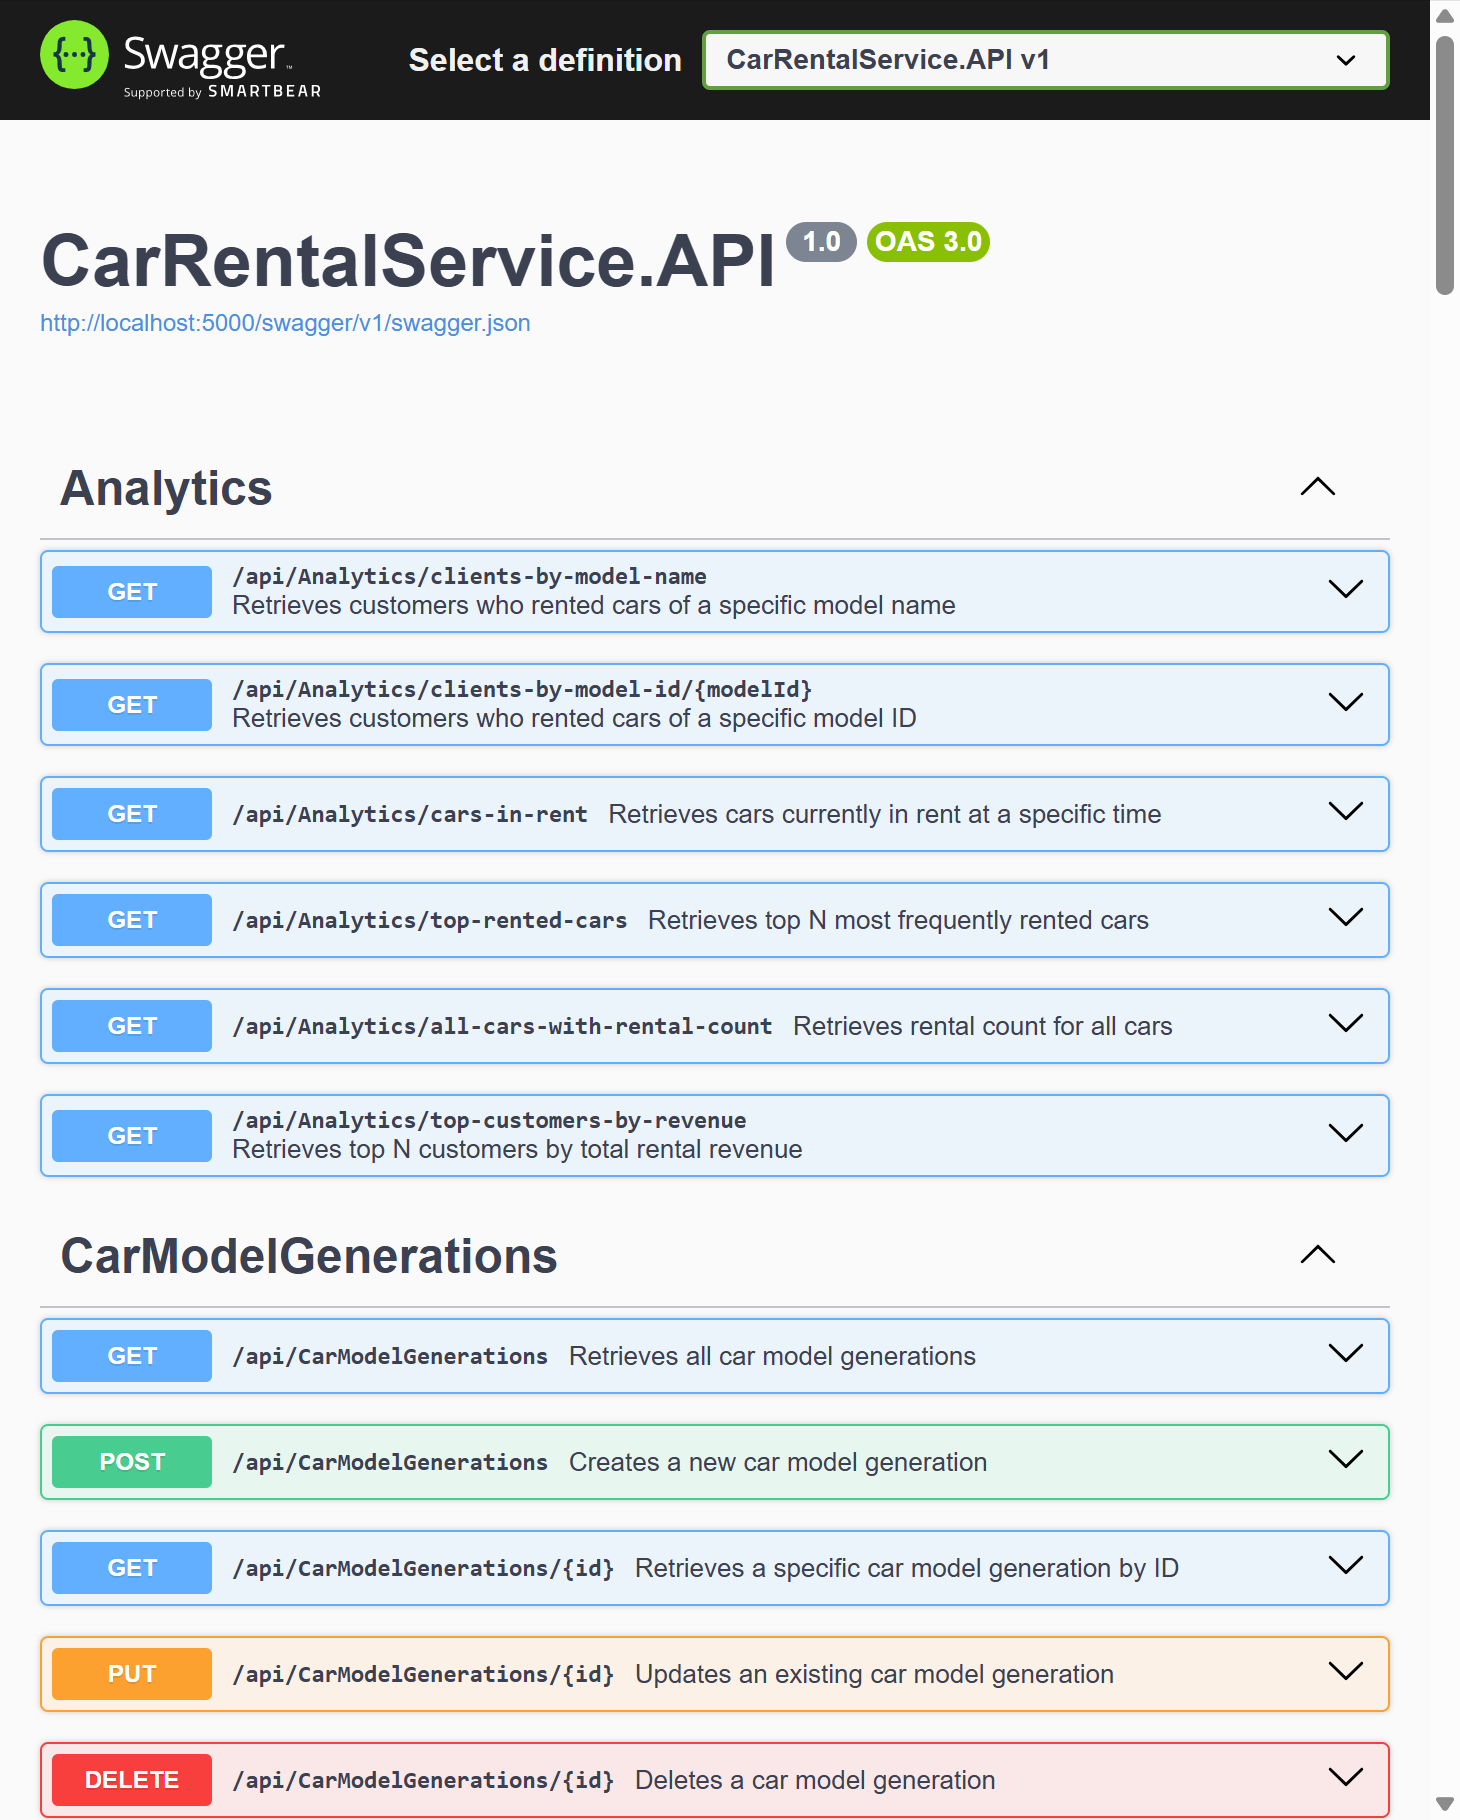
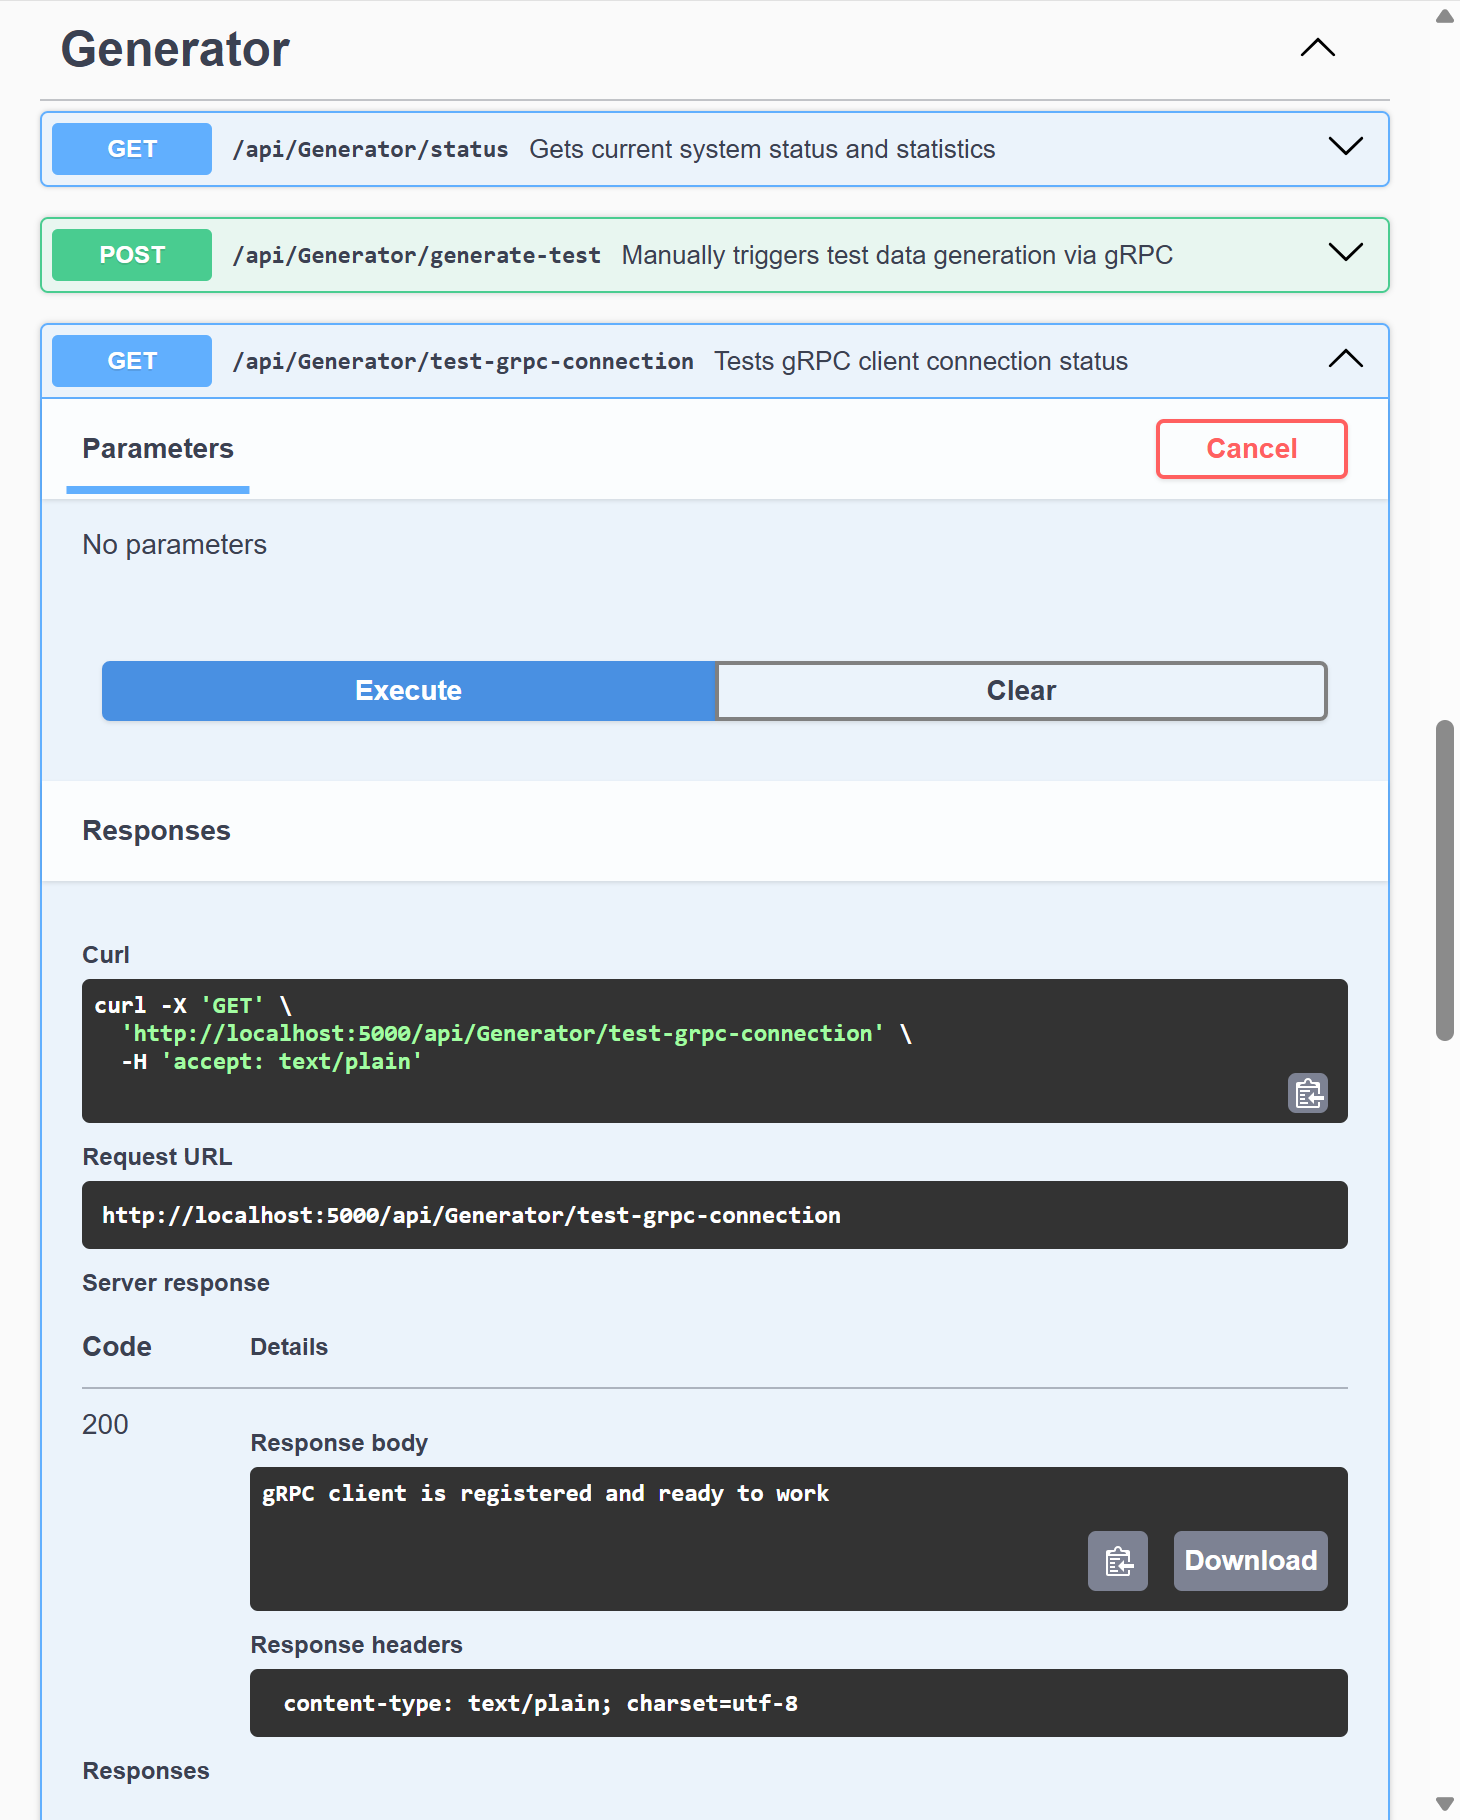
update README

diff --git a/README.md b/README.md
@@ -1,9 +1,8 @@
-# Лабораторная работа №3
-## «ORM» - Реализация объектно-реляционной модели. Подключение к базе данных и настройка оркестрации
+# Лабораторная работа №4
+## «Инфраструктура» - Реализация сервиса генерации данных и его интеграция с сервером
 
-В третьей лабораторной работе хранение переделала c инмемори коллекций на базу данных.
-Также настроила оркестратор Aspire на запуск сервера и базы данных.
-База данных - MongoDb.
+В четвертой лабораторной работе имплементировала сервис, который генерирует контракты. Контракты передаются в сервер и сохраняются в бд, отправка контрактов выполняется при помощи gRPC в потоковом виде. Сервис представляет из себя отдельное приложение без референсов к серверным проектам.
+Также добавила запуск генератора в конфигурацию Aspire.
 
 ### Предметная область - «Пункт проката автомобилей»:
 В базе данных службы проката автомобилей содержится информация о парке транспортных средств, клиентах и аренде.
@@ -18,5 +17,8 @@
 
 ### Swagger работает корректно
 
+![alt text](image.png)
+
 ![alt text](image-1.png)
+
 ![alt text](image-2.png)
